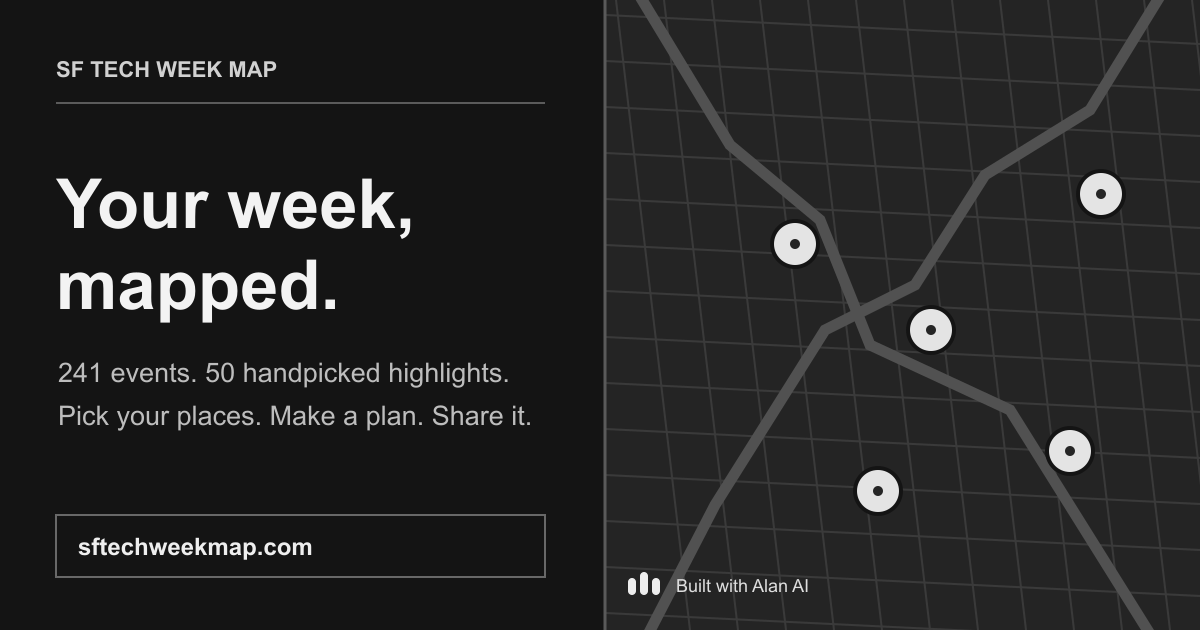
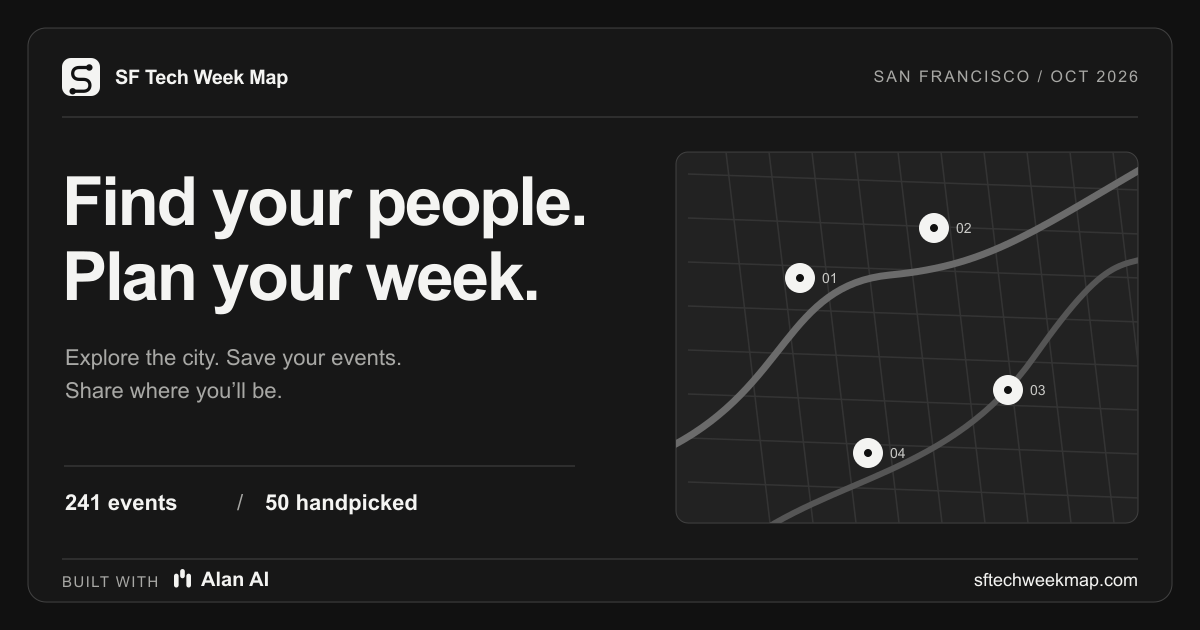
feat: add site mark and redesign share cards
Use a monochrome route mark across the header and favicons. Render the homepage and personalized plan cards from a shared SVG layout with the exact Alan brand mark.

diff --git a/src/card-art.js b/src/card-art.js
@@ -1,0 +1,84 @@
+const INK = '#111111';
+const PAPER = '#f4f4f2';
+const MUTED = '#a8a8a5';
+
+function xml(value) {
+  return String(value).replaceAll('&', '&amp;').replaceAll('<', '&lt;').replaceAll('>', '&gt;').replaceAll('"', '&quot;').replaceAll("'", '&apos;');
+}
+
+function shortDate(value) {
+  return new Intl.DateTimeFormat('en-US', { month: 'short', day: 'numeric', timeZone: 'UTC' })
+    .format(new Date(`${value}T12:00:00Z`)).toUpperCase();
+}
+
+function shortName(value) {
+  return value.length > 59 ? `${value.slice(0, 58).trimEnd()}…` : value;
+}
+
+// Matches the current mark in the header of tryalan.ai (11 × 12 viewBox).
+function alanMark(x, y, width = 18, color = PAPER) {
+  const scale = width / 11;
+  return `<g transform="translate(${x} ${y}) scale(${scale})" fill="${color}"><rect x="0" y="3" width="3" height="9" rx="1.5"/><rect x="4" y="0" width="3" height="6" rx="1.5"/><rect x="8" y="3" width="3" height="9" rx="1.5"/></g>`;
+}
+
+function siteMark(x, y, size = 38) {
+  const scale = size / 64;
+  return `<g transform="translate(${x} ${y}) scale(${scale})"><rect width="64" height="64" rx="15" fill="${PAPER}"/><path d="M45 16H29c-7 0-11 4-11 10s4 10 11 10h7c7 0 11 4 11 10s-4 10-11 10H19" fill="none" stroke="${INK}" stroke-width="5.5" stroke-linecap="round" stroke-linejoin="round"/><circle cx="46" cy="16" r="5.5" fill="${INK}"/><circle cx="18" cy="56" r="5.5" fill="${INK}"/></g>`;
+}
+
+function shell(inner) {
+  return `<svg xmlns="http://www.w3.org/2000/svg" width="1200" height="630" viewBox="0 0 1200 630">
+    <rect width="1200" height="630" fill="${INK}"/>
+    <rect x="28" y="28" width="1144" height="574" rx="18" fill="#171717" stroke="#424242"/>
+    ${siteMark(62, 58, 38)}
+    <text x="115" y="84" fill="${PAPER}" font-family="Arial, Helvetica, sans-serif" font-size="20" font-weight="700" letter-spacing="-.4">SF Tech Week Map</text>
+    <text x="1138" y="82" text-anchor="end" fill="${MUTED}" font-family="Arial, Helvetica, sans-serif" font-size="16" letter-spacing="2">SAN FRANCISCO  /  OCT 2026</text>
+    <path d="M62 117H1138" stroke="#454545"/>
+    ${inner}
+    <path d="M62 559H1138" stroke="#454545"/>
+    <text x="62" y="587" fill="${MUTED}" font-family="Arial, Helvetica, sans-serif" font-size="15" letter-spacing="1.4">BUILT WITH</text>
+    ${alanMark(174, 569, 17)}
+    <text x="201" y="586" fill="${PAPER}" font-family="Arial, Helvetica, sans-serif" font-size="20" font-weight="700">Alan AI</text>
+    <text x="1138" y="586" text-anchor="end" fill="${PAPER}" font-family="Arial, Helvetica, sans-serif" font-size="18">sftechweekmap.com</text>
+  </svg>`;
+}
+
+export function planCardSvg(events) {
+  const shown = events.slice(0, 5);
+  const rows = shown.map((event, index) => {
+    const y = 265 + index * 56;
+    return `<path d="M80 ${y}H1120" stroke="#353535"/>
+      <text x="82" y="${y + 36}" fill="#b4b4b1" font-family="Arial, Helvetica, sans-serif" font-size="18" font-weight="700" letter-spacing="1">${xml(shortDate(event.date))}</text>
+      <text x="236" y="${y + 37}" fill="${PAPER}" font-family="Arial, Helvetica, sans-serif" font-size="25" font-weight="600">${xml(shortName(event.name))}</text>`;
+  }).join('');
+  const more = events.length > 5
+    ? `<text x="81" y="547" fill="${MUTED}" font-family="Arial, Helvetica, sans-serif" font-size="16">+${events.length - 5} more on my map</text>`
+    : '';
+  const count = String(events.length).padStart(2, '0');
+  return shell(`<text x="62" y="199" fill="${PAPER}" font-family="Arial, Helvetica, sans-serif" font-size="61" font-weight="700" letter-spacing="-2.4">My week, mapped.</text>
+    <text x="65" y="236" fill="${MUTED}" font-family="Arial, Helvetica, sans-serif" font-size="21">The places I plan to be during SF Tech Week.</text>
+    <text x="1138" y="204" text-anchor="end" fill="#777774" font-family="Arial, Helvetica, sans-serif" font-size="78" font-weight="700" letter-spacing="-5">${count}</text>
+    <rect x="62" y="265" width="1076" height="${Math.max(64, shown.length * 56)}" rx="9" fill="#1e1e1e"/>
+    ${rows}
+    ${more}`);
+}
+
+export function homeCardSvg() {
+  const streetLines = [
+    ...Array.from({ length: 11 }, (_, i) => `<path d="M${726 + i * 43} 152L${770 + i * 43} 523" stroke="#343434" stroke-width="1.5"/>`),
+    ...Array.from({ length: 9 }, (_, i) => `<path d="M688 ${174 + i * 44}L1140 ${190 + i * 44}" stroke="#343434" stroke-width="1.5"/>`),
+  ].join('');
+  const pins = [[800, 278], [934, 228], [1008, 390], [868, 453]]
+    .map(([x, y], index) => `<circle cx="${x}" cy="${y}" r="15" fill="${PAPER}"/><circle cx="${x}" cy="${y}" r="4" fill="${INK}"/><text x="${x + 22}" y="${y + 5}" fill="#c9c9c6" font-family="Arial, Helvetica, sans-serif" font-size="14">0${index + 1}</text>`).join('');
+  return shell(`<text x="62" y="225" fill="${PAPER}" font-family="Arial, Helvetica, sans-serif" font-size="68" font-weight="700" letter-spacing="-2.5">Find your people.</text>
+    <text x="62" y="300" fill="${PAPER}" font-family="Arial, Helvetica, sans-serif" font-size="68" font-weight="700" letter-spacing="-2.5">Plan your week.</text>
+    <text x="65" y="365" fill="${MUTED}" font-family="Arial, Helvetica, sans-serif" font-size="22">Explore the city. Save your events.</text>
+    <text x="65" y="398" fill="${MUTED}" font-family="Arial, Helvetica, sans-serif" font-size="22">Share where you’ll be.</text>
+    <path d="M64 466H575" stroke="#454545"/>
+    <text x="65" y="510" fill="${PAPER}" font-family="Arial, Helvetica, sans-serif" font-size="22" font-weight="700">241 events</text>
+    <text x="237" y="510" fill="${MUTED}" font-family="Arial, Helvetica, sans-serif" font-size="22">/</text>
+    <text x="265" y="510" fill="${PAPER}" font-family="Arial, Helvetica, sans-serif" font-size="22" font-weight="700">50 handpicked</text>
+    <defs><clipPath id="mapclip"><rect x="676" y="152" width="462" height="371" rx="12"/></clipPath></defs>
+    <rect x="676" y="152" width="462" height="371" rx="12" fill="#222222" stroke="#414141"/>
+    <g clip-path="url(#mapclip)">${streetLines}<path d="M672 446C788 385 786 285 890 275S1034 230 1174 150" fill="none" stroke="#6b6b6b" stroke-width="7"/><path d="M740 546C832 476 950 476 1034 357S1120 274 1182 247" fill="none" stroke="#555555" stroke-width="6"/>${pins}</g>`);
+}

diff --git a/src/share.js b/src/share.js
@@ -1,3 +1,5 @@
+import { planCardSvg } from './card-art.js';
+
 const POST_INTRO = "I'm visiting SF Tech Week. Here's my event plan:";
 
 export function planIdsFromUrl(href) {
@@ -45,77 +47,20 @@ export function xIntentUrl(events, shareUrl) {
   return url.toString();
 }
 
-function fitText(context, value, maxWidth) {
-  if (context.measureText(value).width <= maxWidth) return value;
-  let text = value;
-  while (text.length > 1 && context.measureText(`${text}…`).width > maxWidth) text = text.slice(0, -1);
-  return `${text.trimEnd()}…`;
-}
-
-export function planImageDataUrl(events) {
+export async function planImageDataUrl(events) {
   const canvas = document.createElement('canvas');
   canvas.width = 1200;
-  canvas.height = 675;
+  canvas.height = 630;
   const context = canvas.getContext('2d');
   if (!context) throw new Error('Canvas is unavailable');
-
-  context.fillStyle = '#141414';
-  context.fillRect(0, 0, 1200, 675);
-  context.strokeStyle = '#454545';
-  context.lineWidth = 2;
-  context.strokeRect(32, 32, 1136, 611);
-
-  context.fillStyle = '#d8d8d8';
-  context.font = '500 22px "DM Mono", monospace';
-  context.fillText('SF TECH WEEK MAP  /  OCT 2026', 76, 88);
-  context.fillStyle = '#f4f4f4';
-  context.font = '700 64px "DM Sans", sans-serif';
-  context.fillText('My Tech Week plan', 76, 169);
-  context.fillStyle = '#a9a9a9';
-  context.font = '400 24px "DM Sans", sans-serif';
-  context.fillText(`${events.length} ${events.length === 1 ? 'event' : 'events'} worth showing up for`, 78, 210);
-
-  const shown = events.slice(0, 5);
-  shown.forEach((event, index) => {
-    const y = 278 + index * 69;
-    context.strokeStyle = '#383838';
-    context.beginPath();
-    context.moveTo(76, y - 25);
-    context.lineTo(1124, y - 25);
-    context.stroke();
-    context.fillStyle = '#bcbcbc';
-    context.font = '500 21px "DM Mono", monospace';
-    context.fillText(event.dateText.toUpperCase(), 78, y + 8);
-    context.fillStyle = '#f4f4f4';
-    context.font = '600 30px "DM Sans", sans-serif';
-    context.fillText(fitText(context, event.name, 800), 300, y + 10);
-  });
-
-  if (events.length > shown.length) {
-    context.fillStyle = '#bcbcbc';
-    context.font = '500 22px "DM Mono", monospace';
-    context.fillText(`+ ${events.length - shown.length} more events on my map`, 78, 594);
+  const blobUrl = URL.createObjectURL(new Blob([planCardSvg(events)], { type: 'image/svg+xml' }));
+  try {
+    const image = new Image();
+    image.src = blobUrl;
+    await image.decode();
+    context.drawImage(image, 0, 0);
+  } finally {
+    URL.revokeObjectURL(blobUrl);
   }
-  context.fillStyle = '#ededed';
-  for (const [x, y, height] of [[78, 610, 18], [90, 604, 24], [102, 610, 18]]) {
-    context.beginPath();
-    context.moveTo(x + 3, y);
-    context.lineTo(x + 5, y);
-    context.quadraticCurveTo(x + 8, y, x + 8, y + 3);
-    context.lineTo(x + 8, y + height - 3);
-    context.quadraticCurveTo(x + 8, y + height, x + 5, y + height);
-    context.lineTo(x + 3, y + height);
-    context.quadraticCurveTo(x, y + height, x, y + height - 3);
-    context.lineTo(x, y + 3);
-    context.quadraticCurveTo(x, y, x + 3, y);
-    context.fill();
-  }
-  context.font = '500 21px "DM Mono", monospace';
-  context.fillText('Built with Alan AI', 126, 628);
-  context.fillStyle = '#e2e2e2';
-  context.font = '500 21px "DM Mono", monospace';
-  context.textAlign = 'right';
-  context.fillText('sftechweekmap.com', 1120, 628);
-
   return canvas.toDataURL('image/png');
 }

diff --git a/api/og.js b/api/og.js
@@ -1,20 +1,8 @@
 import sharp from 'sharp';
 import events from '../src/events.json' with { type: 'json' };
+import { planCardSvg } from '../src/card-art.js';
 
 const known = new Map(events.map((event) => [event.id, event]));
-
-function escapeXml(value) {
-  return String(value).replaceAll('&', '&amp;').replaceAll('<', '&lt;').replaceAll('>', '&gt;').replaceAll('"', '&quot;').replaceAll("'", '&apos;');
-}
-
-function shortDate(value) {
-  return new Intl.DateTimeFormat('en-US', { month: 'short', day: 'numeric', timeZone: 'UTC' })
-    .format(new Date(`${value}T12:00:00Z`)).toUpperCase();
-}
-
-function fitName(value) {
-  return value.length > 56 ? `${value.slice(0, 55).trimEnd()}…` : value;
-}
 
 export async function GET(request) {
   const requested = new URL(request.url);
@@ -22,29 +10,6 @@ export async function GET(request) {
   const chosen = ids.map((id) => known.get(id)).sort((a, b) => a.date.localeCompare(b.date) || a.time_pt.localeCompare(b.time_pt));
   if (!chosen.length) return new Response('Plan not found', { status: 404 });
 
-  const rows = chosen.slice(0, 5).map((event, index) => {
-    const y = 248 + index * 62;
-    return `<line x1="64" y1="${y - 32}" x2="1136" y2="${y - 32}" stroke="#3d3d3d" />
-      <text x="67" y="${y + 7}" fill="#bdbdbd" font-size="21" font-family="Arial, sans-serif">${escapeXml(shortDate(event.date))}</text>
-      <text x="250" y="${y + 10}" fill="#f1f1f1" font-size="28" font-weight="bold" font-family="Arial, sans-serif">${escapeXml(fitName(event.name))}</text>`;
-  }).join('');
-  const more = chosen.length > 5
-    ? `<text x="67" y="545" fill="#bdbdbd" font-size="19" font-family="Arial, sans-serif">+${chosen.length - 5} more on my map</text>`
-    : '';
-  const svg = `<svg xmlns="http://www.w3.org/2000/svg" width="1200" height="630" viewBox="0 0 1200 630">
-    <rect width="1200" height="630" fill="#141414" />
-    <rect x="32" y="32" width="1136" height="566" fill="none" stroke="#454545" stroke-width="2" />
-    <text x="65" y="83" fill="#d7d7d7" font-size="22" font-weight="bold" letter-spacing="2" font-family="Arial, sans-serif">SF TECH WEEK MAP  /  OCT 2026</text>
-    <text x="64" y="155" fill="#f1f1f1" font-size="62" font-weight="bold" font-family="Arial, sans-serif">My Tech Week plan</text>
-    <text x="67" y="198" fill="#b5b5b5" font-size="23" font-family="Arial, sans-serif">${chosen.length} ${chosen.length === 1 ? 'event' : 'events'} worth showing up for</text>
-    ${rows}
-    ${more}
-    <rect x="66" y="571" width="8" height="17" rx="4" fill="#eee" />
-    <rect x="78" y="565" width="8" height="23" rx="4" fill="#eee" />
-    <rect x="90" y="571" width="8" height="17" rx="4" fill="#eee" />
-    <text x="113" y="585" fill="#d8d8d8" font-size="20" font-family="Arial, sans-serif">Built with Alan AI</text>
-    <text x="1137" y="585" text-anchor="end" fill="#bdbdbd" font-size="20" font-family="Arial, sans-serif">sftechweekmap.com</text>
-  </svg>`;
-  const png = await sharp(Buffer.from(svg)).png().toBuffer();
+  const png = await sharp(Buffer.from(planCardSvg(chosen))).png().toBuffer();
   return new Response(png, { headers: { 'content-type': 'image/png', 'cache-control': 'public, s-maxage=86400, stale-while-revalidate=604800' } });
 }

diff --git a/src/styles.css b/src/styles.css
@@ -29,8 +29,8 @@ button:focus-visible, a:focus-visible, input:focus-visible, select:focus-visible
 
 .app-shell { height: 100dvh; min-height: 600px; overflow: hidden; background: #141414; }
 .brand { display: inline-flex; align-items: center; gap: 11px; text-decoration: none; font-size: 17px; font-weight: 700; letter-spacing: -.035em; white-space: nowrap; }
-.brand__mark { color: var(--accent); display: flex; transform: translateY(1px); }
-.brand__mark svg { stroke: #141414; }
+.brand__mark { display: flex; align-items: center; }
+.brand__mark img { display: block; width: 25px; height: 25px; }
 .plan-button { position: fixed; z-index: 750; top: 16px; right: 18px; display: inline-flex; align-items: center; gap: 9px; height: 38px; padding: 0 8px 0 13px; border: 1px solid #777; border-radius: 7px; box-shadow: 0 8px 24px #0008; color: var(--text); background: #1c1c1c; font-size: 12px; font-weight: 600; transition: border-color .2s, background .2s; }
 .plan-button:hover, .plan-button--active { border-color: var(--accent); background: #262626; }
 .plan-button__count { display: grid; place-items: center; min-width: 22px; height: 22px; border-radius: 50%; background: var(--accent); color: #1c1c1c; font: 700 11px var(--mono); }
@@ -197,7 +197,7 @@ button:focus-visible, a:focus-visible, input:focus-visible, select:focus-visible
   .app-shell { min-height: 100dvh; height: auto; overflow: visible; }
   .sidebar__header { order: 1; min-height: 59px; padding: 0 172px 0 15px; position: relative; }
   .brand { font-size: 15px; gap: 7px; }
-  .brand__mark svg { width: 17px; }
+  .brand__mark img { width: 23px; height: 23px; }
   .panel-toggle { position: absolute; top: 12px; right: 129px; }
   .plan-button { top: 12px; right: 14px; height: 35px; padding: 0 6px 0 9px; font-size: 11px; gap: 6px; }
   .plan-button svg { width: 14px; }

diff --git a/src/App.jsx b/src/App.jsx
@@ -162,9 +162,9 @@ export default function App() {
     }
   }
 
-  function showPlanImage() {
+  async function showPlanImage() {
     setShareError('');
-    try { setPlanImage(planImageDataUrl(plannedEvents)); }
+    try { setPlanImage(await planImageDataUrl(plannedEvents)); }
     catch { setShareError('Could not create the image. Please try again.'); }
   }
 
@@ -175,7 +175,7 @@ export default function App() {
       <main className="workspace">
         <section className="sidebar" aria-label="Explore events">
           <div className="sidebar__header">
-            <a className="brand" href="/" onClick={(event) => { event.preventDefault(); showExplore(); }} aria-label="SF Tech Week Map home"><span className="brand__mark"><MapPin size={19} fill="currentColor" strokeWidth={2.1} /></span><span>SF Tech Week Map</span></a>
+            <a className="brand" href="/" onClick={(event) => { event.preventDefault(); showExplore(); }} aria-label="SF Tech Week Map home"><span className="brand__mark"><img src="/favicon.svg" alt="" width="25" height="25" /></span><span>SF Tech Week Map</span></a>
             <button className="panel-toggle" onClick={() => setPanelCollapsed(true)} aria-label="Hide event panel to enlarge map" title="Enlarge map"><PanelLeftClose size={19} /></button>
           </div>
           <div className="sidebar__intro">

diff --git a/index.html b/index.html
@@ -5,6 +5,9 @@
     <meta name="viewport" content="width=device-width, initial-scale=1.0" />
     <meta name="color-scheme" content="dark" />
     <meta name="theme-color" content="#111111" />
+    <link rel="icon" type="image/svg+xml" href="/favicon.svg" />
+    <link rel="icon" type="image/png" sizes="32x32" href="/favicon-32.png" />
+    <link rel="apple-touch-icon" sizes="180x180" href="/apple-touch-icon.png" />
     <meta name="description" content="Explore 241 October tech events across San Francisco and the Bay Area, including 50 handpicked highlights. Find events, save your plan, and share it." />
     <!-- SOCIAL_META_START -->
     <meta property="og:type" content="website" />
